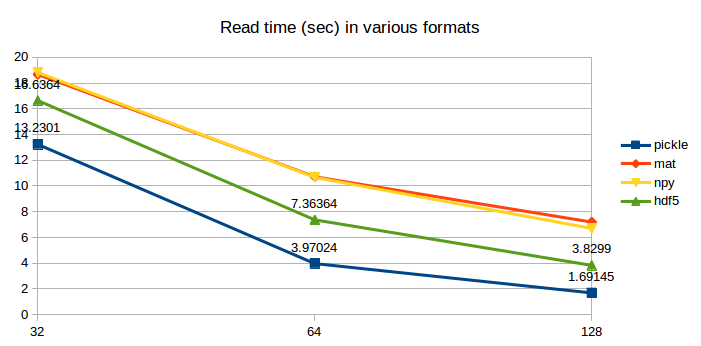
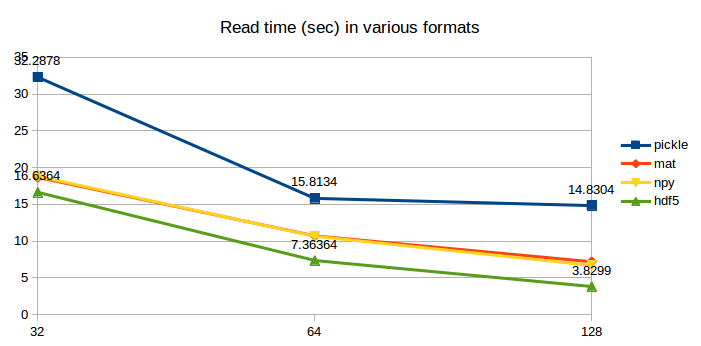
fix bug for pickle dump in convert_cifier2aformat_with_n_units.py

diff --git a/python/io/convert_cifier2aformat_with_n_units.py b/python/io/convert_cifier2aformat_with_n_units.py
@@ -31,14 +31,14 @@ def read_with_cv2_to_pkl(n=32):
             filename = os.path.basename(filepath)
             filename = filename.split(".png")[0]
             filename = "{}_{}-{}.pkl".format(filename, i - n, i)
-            pkl.dump(I, open("{}/{}".format(base_save_dirpath, filename), "w"))
+            pkl.dump(data, open("{}/{}".format(base_save_dirpath, filename), "w"))
             del data[:]
         if (i + 1) == m:
             print i
             filename = os.path.basename(filepath)
             filename = filename.split(".png")[0]
             filename = "{}_{}-{}.pkl".format(filename, i - n, i)
-            pkl.dump(I, open("{}/{}".format(base_save_dirpath, filename), "w"))
+            pkl.dump(data, open("{}/{}".format(base_save_dirpath, filename), "w"))
 
 def read_with_cv2_to_mat(n=32):
     base_dirpath = "/home/kzk/datasets/cifar10/train"
@@ -136,9 +136,9 @@ def read_with_cv2_to_hdf5(n=32):
 def main():
     for n in [32, 64, 128]:
         read_with_cv2_to_pkl(n)
-        read_with_cv2_to_mat(n)
-        read_with_cv2_to_npy(n)
-        read_with_cv2_to_hdf5(n)
+        #read_with_cv2_to_mat(n)
+        #read_with_cv2_to_npy(n)
+        #read_with_cv2_to_hdf5(n)
 
     pass
 
